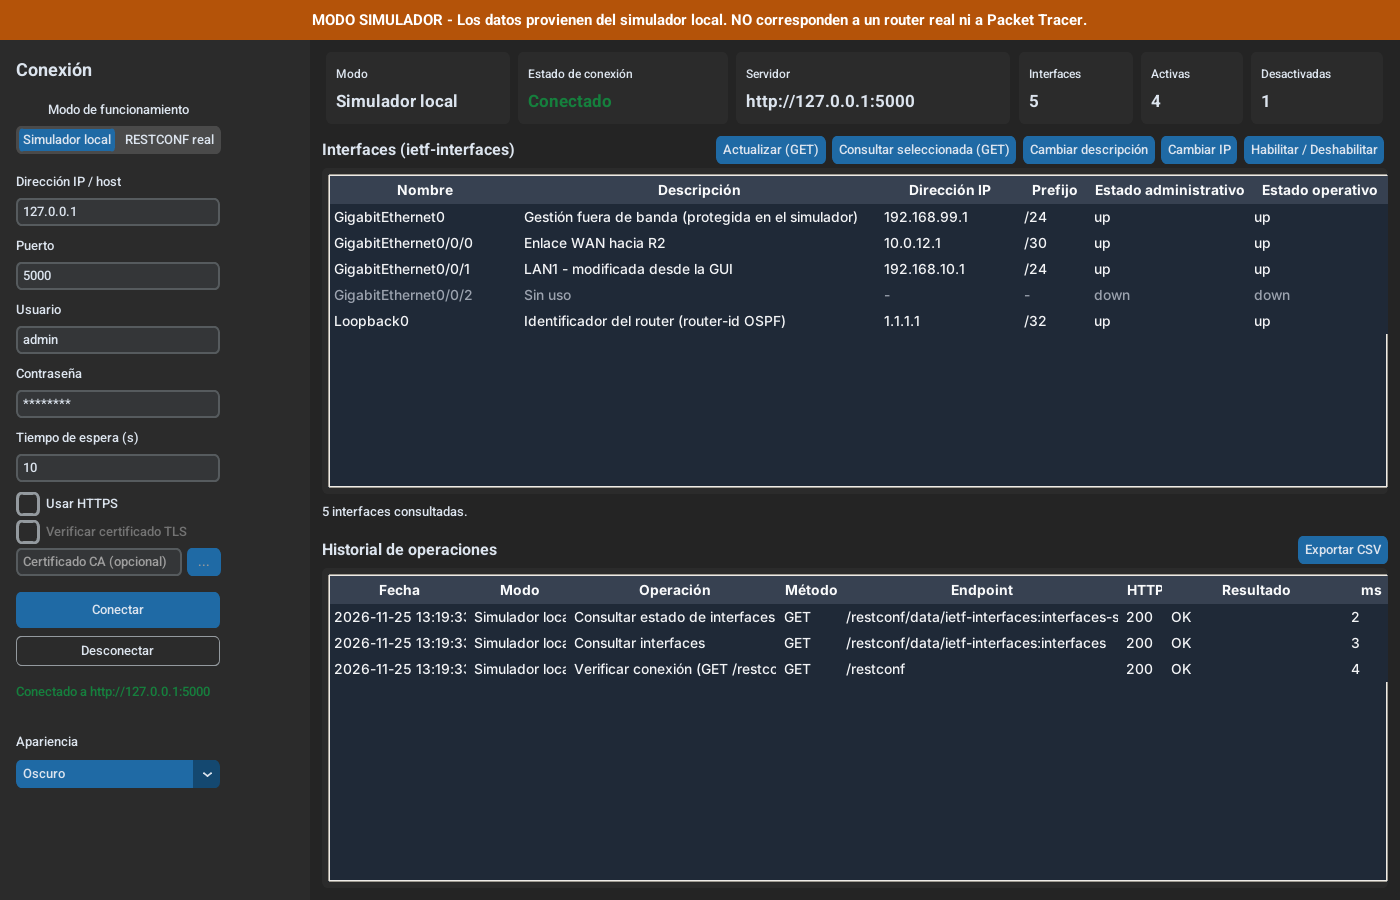
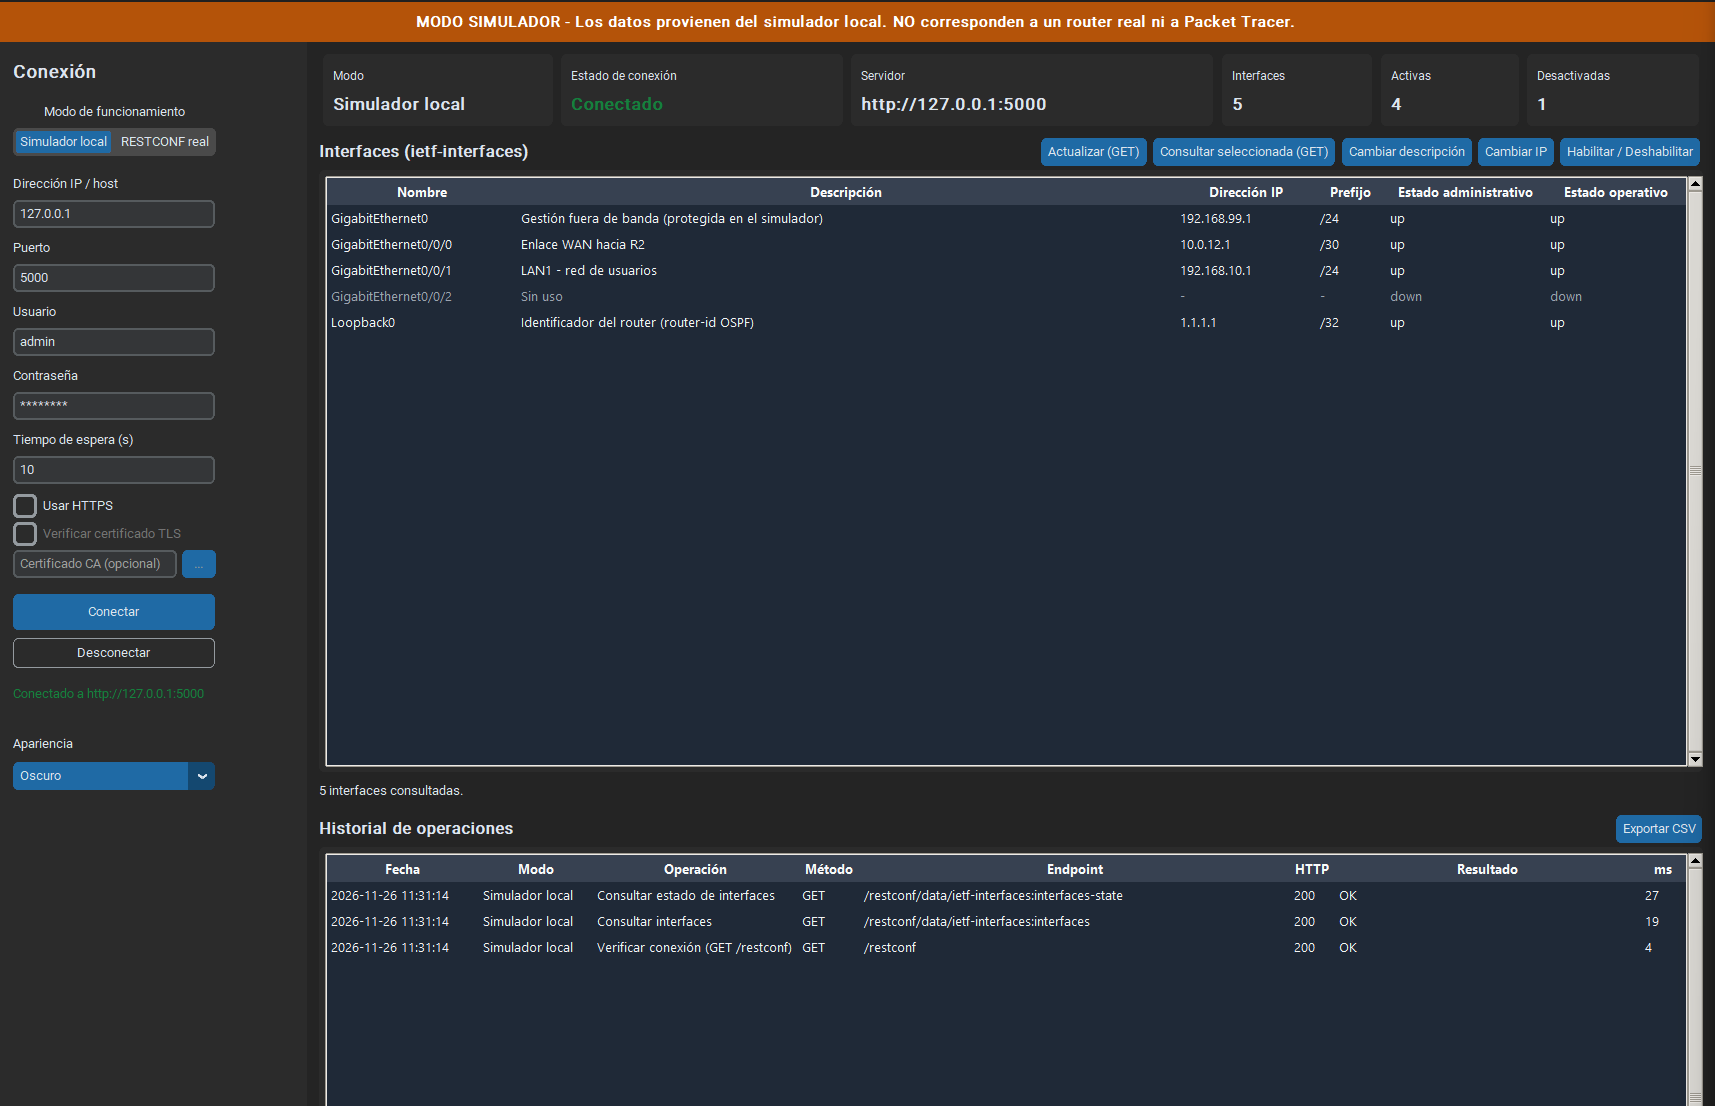
Capturas de la app en Windows y tabla de comparación CLI vs app.

Changed region(s): [[0.0, 0.0, 1.0, 1.0], [0.0, 0.8089, 0.1536, 0.9022], [0.7679, 0.28, 0.7986, 0.3422]]

diff --git a/docs/informe/Informe_Desafio_Redes.tex b/docs/informe/Informe_Desafio_Redes.tex
@@ -937,6 +937,13 @@ Los errores se devuelven con la estructura del RFC 8040. Por ejemplo, la consult
   \label{fig:gui3}
 \end{figure}
 
+\begin{figure}[H]
+  \centering
+  \includegraphics[width=0.95\textwidth]{04_error_401.png}
+  \caption{Manejo de credenciales incorrectas: el simulador responde HTTP 401 y la aplicación muestra un mensaje controlado sin registrar la contraseña.}
+  \label{fig:gui4}
+\end{figure}
+
 \textbf{Pruebas automatizadas.} La ejecución de \texttt{python -m pytest -v} terminó con \textbf{39 pruebas aprobadas y 5 omitidas}. Las omitidas son las pruebas contra un dispositivo real, que se ejecutan solo si se configura la variable \texttt{RESTCONF\_HOST}. La misma suite se ejecutó con Python 3.12 y con Python 3.10 con el mismo resultado. La colección de Postman se comprobó reproduciendo sus siete solicitudes contra el simulador; todas devolvieron el código esperado.
 
 \subsection{Resultados contra un dispositivo IOS XE real}\label{sec:real}

diff --git a/lab/comparacion_cli_vs_aplicacion.md b/lab/comparacion_cli_vs_aplicacion.md
@@ -1,5 +1,7 @@
 # Comparación: CLI de Packet Tracer vs. aplicación RESTCONF
 
+**Fecha:** 26 de noviembre de 2026 · **Realizada por:** César Andrés Mora Fajardo
+
 ## Advertencia
 
 Los dos sistemas **no están conectados ni sincronizados**:
@@ -18,28 +20,57 @@ resultado de una integración.
 
 ## Procedimiento
 
-1. **Packet Tracer:** en R1 ejecutar `show ip interface brief` y
-   `show running-config | section interface`. Capturar la pantalla.
+1. **Packet Tracer:** abrir `lab/topologia_ce5301.pkt`, entrar a R1
+   (`enable`, contraseña `class`) y ejecutar `show ip interface brief` y
+   `show running-config` (avanzar con la barra espaciadora hasta la sección de
+   interfaces). Capturar la pantalla.
 2. **Aplicación:** iniciar el simulador (`python -m simulator.server`), abrir
    la GUI (`python main.py`), conectar y pulsar *Actualizar (GET)*. Capturar la
    pantalla (el encabezado naranja identifica el modo simulador).
 3. Llenar la tabla siguiente **a mano**, copiando los valores observados.
-4. Realizar el mismo cambio en ambos lados (por ejemplo, la descripción de
-   G0/0/1): por CLI en Packet Tracer y con *Cambiar descripción* en la
-   aplicación. Comparar el procedimiento, el tiempo y la verificación.
+4. Realizar el mismo cambio en ambos lados (la descripción de G0/0/1): por CLI
+   en Packet Tracer y con *Cambiar descripción* en la aplicación. Comparar el
+   procedimiento, el tiempo y la verificación.
 
-## Tabla de comparación (completar)
+## Tabla de comparación
 
-| Interfaz | Campo | Packet Tracer — R1 (CLI) | Aplicación — modo: ________ | ¿Coinciden? |
+| Interfaz | Campo | Packet Tracer — R1 (CLI) | Aplicación — modo: Simulador local | ¿Coinciden? |
 |---|---|---|---|---|
-| G0/0/0 | IP / prefijo | `10.0.12.1/30 (10.0.12.1 255.255.255.252)` | | |
-| G0/0/0 | Estado administrativo | `up (no shutdown, habilitada)` | | |
-| G0/0/0 | Estado operativo | `up (Protocol up, vecino OSPF 2.2.2.2 FULL)` | | |
-| G0/0/1 | IP / prefijo | `192.168.10.1/24 (192.168.10.1 255.255.255.0)` | | |
-| G0/0/1 | Descripción | `LAN1 - red de usuarios` | | |
-| G0/0/1 | Estado administrativo | `up (no shutdown, habilitada)` | | |
-| G0/0/2 | Estado administrativo | `administratively down (shutdown, deshabilitada)` | | |
-| Loopback0 | IP / prefijo | `1.1.1.1/32 (1.1.1.1 255.255.255.255)` | | |
+| G0/0/0 | IP / prefijo | `10.0.12.1/30 (10.0.12.1 255.255.255.252)` | `10.0.12.1` · `/30` | Sí |
+| G0/0/0 | Estado administrativo | `up (no shutdown, habilitada)` | `up` | Sí |
+| G0/0/0 | Estado operativo | `up (Protocol up, vecino OSPF 2.2.2.2 FULL)` | `up` | Sí |
+| G0/0/1 | IP / prefijo | `192.168.10.1/24 (192.168.10.1 255.255.255.0)` | `192.168.10.1` · `/24` | Sí |
+| G0/0/1 | Descripción | `LAN1 - red de usuarios` | `LAN1 - red de usuarios` | Sí |
+| G0/0/1 | Estado administrativo | `up (no shutdown, habilitada)` | `up` | Sí |
+| G0/0/2 | Estado administrativo | `administratively down (shutdown, deshabilitada)` | `down` (`enabled: false`) | Sí (equivalente) |
+| Loopback0 | IP / prefijo | `1.1.1.1/32 (1.1.1.1 255.255.255.255)` | `1.1.1.1` · `/32` | Sí |
+
+**Resultado:** los 8 campos comparados coinciden. Esto confirma que el
+conjunto de datos del simulador reproduce correctamente el plan de R1. **No**
+demuestra comunicación entre la aplicación y Packet Tracer: los valores
+coinciden porque se copiaron manualmente al diseñar el simulador.
+
+## Mismo cambio en ambos lados: descripción de G0/0/1
+
+| Aspecto | Packet Tracer (CLI) | Aplicación (RESTCONF, simulador) |
+|---|---|---|
+| Pasos | `configure terminal` → `interface GigabitEthernet0/0/1` → `description Cambio por CLI` → `end` → `show running-config` | Seleccionar la interfaz → *Cambiar descripción* → escribir el texto → *Aceptar* → *Confirmar y enviar* |
+| Cantidad | 5 comandos (después de `enable`) | 4 clics + escribir el texto |
+| Solicitud enviada | Comandos de texto por consola | `PATCH` a `/restconf/data/ietf-interfaces:interfaces/interface=GigabitEthernet0%2F0%2F1` (HTTP 204) |
+| Confirmación previa | No | Sí: muestra método, endpoint y JSON antes de enviar |
+| Verificación | Manual, leyendo `show running-config` | Automática: `GET` posterior (HTTP 200) que compara el valor esperado |
+| Registro | No queda registro estructurado | Historial con fecha, método, endpoint, código HTTP y tiempo |
+| Tiempo estimado de operación (no medido) | ≈ 30–45 s (escribir 5 comandos y revisar la salida de `show running-config`) | ≈ 10–15 s (4 clics, escribir el texto y leer la confirmación) |
+| Tiempo de respuesta del servidor (medido) | — | 4,41 ms en promedio para PATCH + GET de verificación (50 repeticiones contra el simulador local; ver `evidence/simulador/README.md`) |
+
+> Los tiempos de operación son **estimaciones** del tiempo que tarda una persona
+> en completar cada procedimiento; no se cronometraron. El tiempo de respuesta
+> del servidor sí es una medición real, hecha contra el simulador local, y no
+> representa el de un router real.
+
+Ambos cambios se aplicaron, cada uno en su propio sistema: la descripción
+cambiada por CLI no aparece en la aplicación, y la cambiada en la aplicación
+no aparece en Packet Tracer, lo que confirma que no hay sincronización.
 
 ## Equivalencias entre CLI y modelo YANG
 
@@ -51,9 +82,14 @@ resultado de una integración.
 | Columna *Status* de `show ip interface brief` | `interfaces-state/interface/admin-status` | ietf-interfaces |
 | Columna *Protocol* de `show ip interface brief` | `interfaces-state/interface/oper-status` | ietf-interfaces |
 
-## Diferencias esperadas
+## Diferencias observadas
 
 * El simulador incluye `GigabitEthernet0` (gestión), que es de solo lectura y
   sirve para probar el error **403**. Esa interfaz no forma parte del laboratorio.
+* La CLI muestra la máscara en notación decimal (`255.255.255.0`) y la
+  aplicación muestra el prefijo (`/24`); el simulador guarda `netmask`, como
+  IOS XE, y la aplicación lo convierte.
+* La CLI distingue `administratively down` de `down`; en el modelo YANG la
+  primera corresponde a `enabled: false` / `admin-status: down`.
 * Los contadores de tráfico del simulador son artificiales.
 * Un cambio hecho en Packet Tracer **no** aparece en la aplicación, y viceversa.
